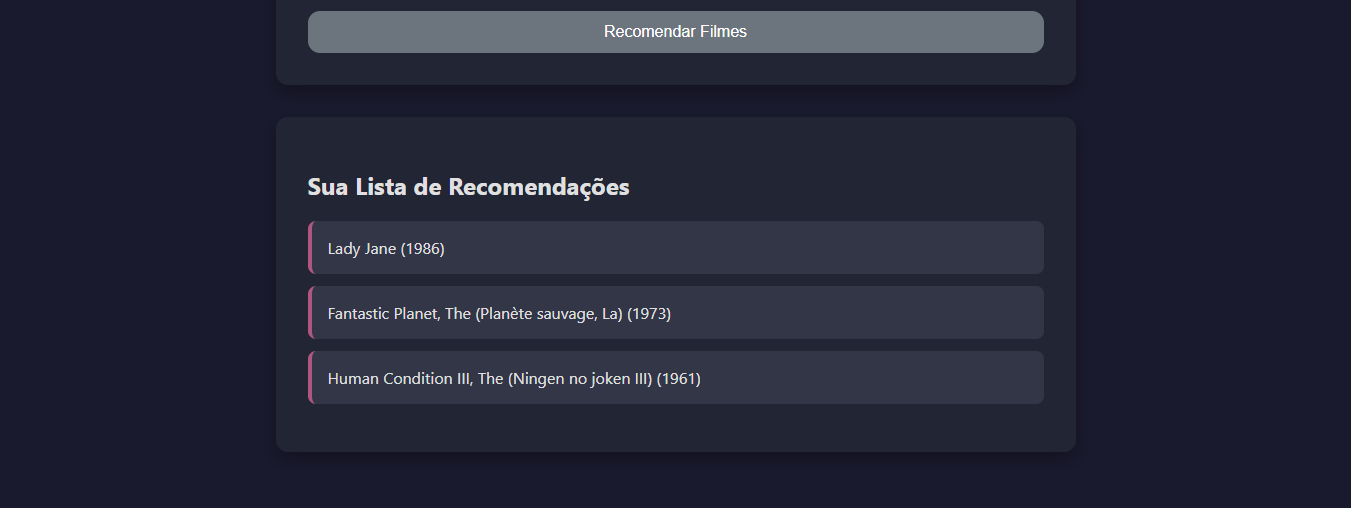
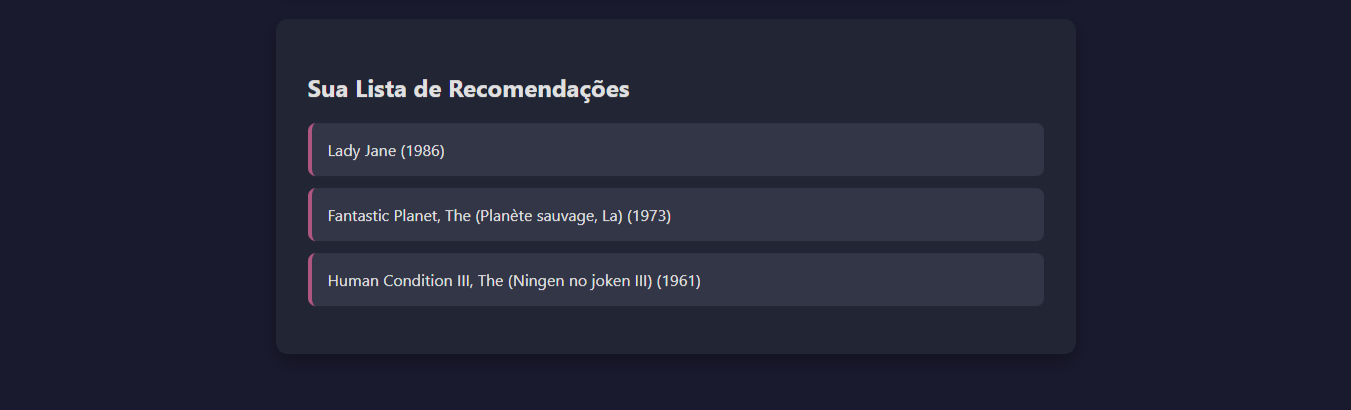
alterando asset 2

diff --git a/README.md b/README.md
@@ -3,7 +3,7 @@ Sistema de recomendação Flask de Filmes baseado no dataset: https://www.kaggle
   <img src="assets/captura1.png" alt="tela inicial" width="800"/>
 </p>
 <p align="center">
-  <img src="assets/captura2.png" alt="tela inicial" width="800"/>
+  <img src="assets/captura2.png" alt="tela recomendacao" width="800"/>
 </p>
 
 
